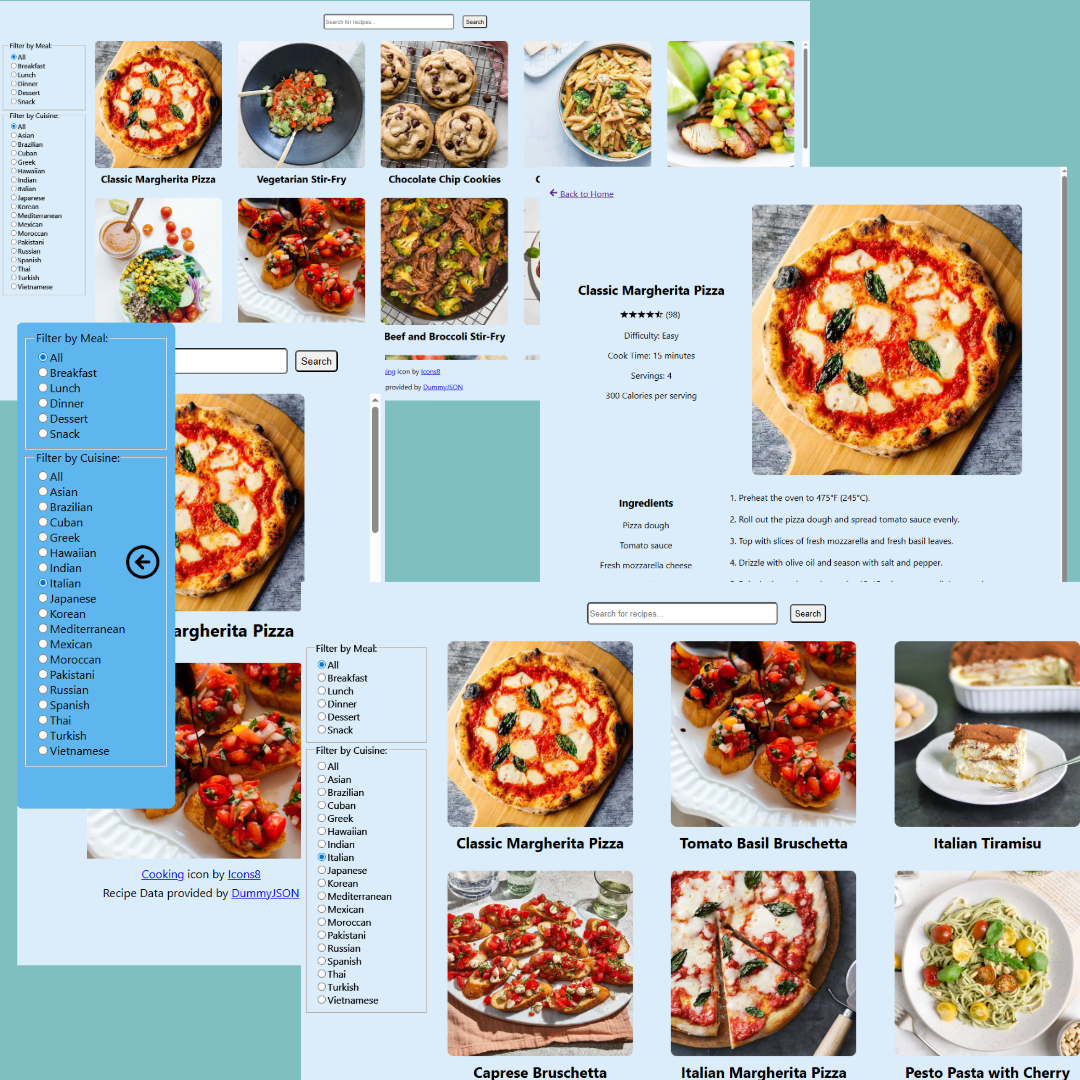
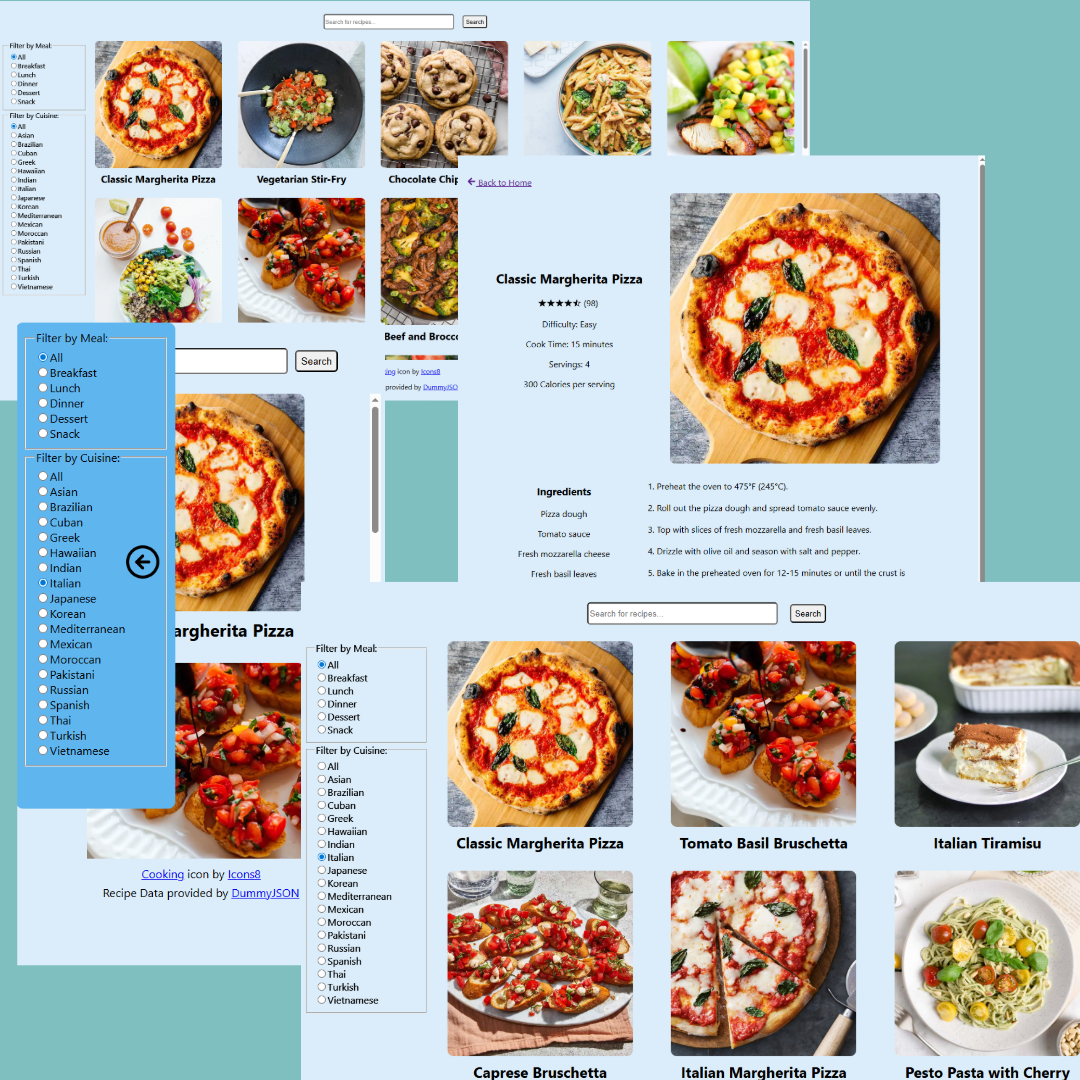
Added recipe Project collage photo to project page

Changed region(s): [[0.3972, 0.1222, 1.0, 0.55]]

diff --git a/src/pages/RecipeProject.jsx b/src/pages/RecipeProject.jsx
@@ -1,12 +1,12 @@
 import '../css/Project.css';
-import cummingsMapleCollage from '../assets/cummingsMapleCollage.png';
+import recipeProjectCollage from '../assets/recipeProjectCollage.png';
 
 function RecipeProject() {
     return (
         <div className="selected-project">
             <div className="project-info">
                 <a href="https://laurencummings.github.io/recipe-project2/" >
-                    <img src={cummingsMapleCollage} alt="Collage of Cummings Maple" />
+                    <img src={recipeProjectCollage} alt="Collage of Recipe Project website" />
                 </a>
                 <div className="project-details">
                     <ul>
